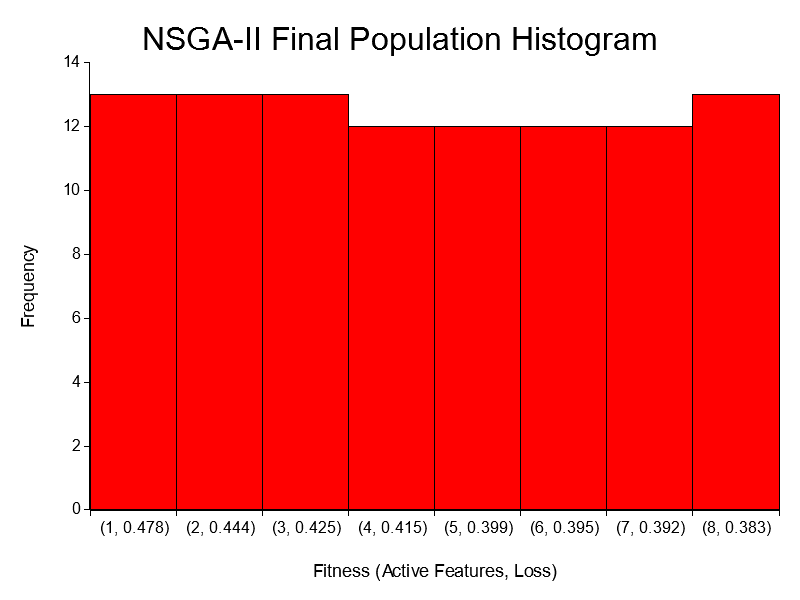
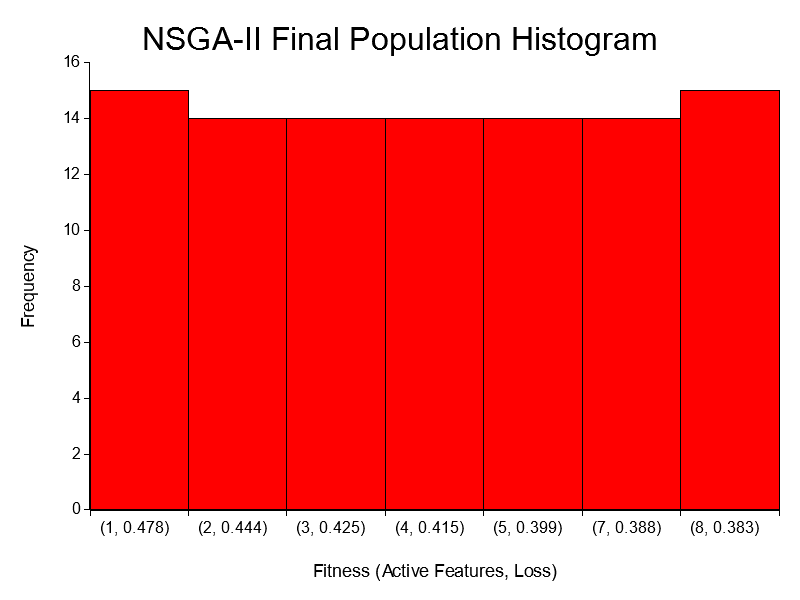
Refactor MOO algorithm to support time-based termination and add multiple run execution

diff --git a/src/algorithms/moo/moo.rs b/src/algorithms/moo/moo.rs
@@ -3,6 +3,8 @@ use crate::utils::read_data;
 use rand::prelude::*;
 use plotters::prelude::*;
 use std::collections::HashMap;
+use std::time::{Instant, Duration};
+
 
 #[derive(Debug, Clone)]
 pub struct MooCombination {
@@ -591,66 +593,255 @@ pub fn plot_population(population: &[MooCombination], filename: &str) -> Result<
     Ok(())
 }
 
-/// Initializes the MOO algorithm with a given dataset and parameters.
-pub fn run_moo_algorithm(file_path: &str, population_size: usize, generations: usize, generations_to_print: usize, gene_length: usize) -> Vec<MooCombination> {
+/// Generic MOO algorithm runner.
+/// It initializes the population, then iteratively evolves it until the provided termination
+/// condition (a closure that takes the current generation count and the start time) returns false.
+/// The closure can use the current generation and elapsed time to decide when to stop.
+fn run_moo_algorithm_generic<F>(
+    file_path: &str,
+    population_size: usize,
+    gene_length: usize,
+    generations_to_print: usize,
+    print: bool,
+    mut termination_condition: F,
+) -> Vec<MooCombination>
+where
+    F: FnMut(usize, Instant) -> bool,
+{
+    // Load dataset and initialize population.
     let lookup_table = read_data::read_data(file_path).unwrap();
+    let mut population = init_population(gene_length, population_size, &lookup_table);
 
-    // Initialize the population
-    let mut population = init_population(gene_length, population_size, &lookup_table); 
-
-    
-    // Changes performed to the initial population
+    // Initial nondominated sort and assign crowding distances.
     let mut sorted_population = fast_nondominated_sort(population.clone());
-
-    // Assgns the crowding distance for the sorted population
     assign_crowding_distance_all(&mut sorted_population);
-
-    let mut generation = 0;
     let mutation_probability = 0.1;
-
     population = sorted_population.clone();
-    while generation < generations {
+
+    // Record start time for time-based termination.
+    let start_time = Instant::now();
+    let mut generation = 0;
+
+    // Run evolutionary loop until termination condition returns false.
+    while termination_condition(generation, start_time) {
         generation += 1;
-        // Prints for every x generations
-        if generation % generations_to_print == 0 {
+
+        // Print generation info if needed.
+        if generation % generations_to_print == 0 && print {
             println!("Generation: {}", generation);
-            // for individual in &population {
-            //    //all the attrs of the individual
-            //     println!("Combination: {:?}, Loss: {}, Rank: {}, Crowding Distance: {}", individual.combination, individual.loss, individual.rank, individual.crowding_distance);
-            // }
- 
         }
 
-        // 1 ) Generate offspring population
+        // 1) Generate offspring.
         let offspring_population = generate_offspring_population(&population, mutation_probability, &lookup_table);
-
-        // 2) Merge parent and offspring populations
+        // 2) Merge parent and offspring populations.
         let super_population = merge_populations(&population, &offspring_population);
-
-        // 3) Perform fast nondominated sorting on the merged population
+        // 3) Sort the merged population.
         let sorted_super_population = fast_nondominated_sort(super_population.clone());
-
-        // 4) Apply elitism to select the best individuals for the next generation
+        // 4) Apply elitism to select the next generation.
         let new_population = elitism(&sorted_super_population);
-
-        // 5 assigns the population to the new population
         population = new_population.clone();
-
     }
 
-    // 6) Perform fast nondominated sorting on the final population
+    // Final nondominated sorting and crowding distance assignment.
     let mut final_sorted_population = fast_nondominated_sort(population.clone());
-    // 7) Assign crowding distance to the final population
     assign_crowding_distance_all(&mut final_sorted_population);
-    // Prints the final population
-    println!("Final Population:");
 
-    for individual in &final_sorted_population {
-        println!("Combination: {:?}, Loss: {}, Rank: {}, Crowding Distance: {}", individual.combination, individual.loss, individual.rank, individual.crowding_distance);
+    if print {
+        println!("Final Population:");
+        for individual in &final_sorted_population {
+            println!(
+                "Combination: {:?}, Loss: {}, Rank: {}, Crowding Distance: {}",
+                individual.combination, individual.loss, individual.rank, individual.crowding_distance
+            );
+        }
     }
     final_sorted_population
-
 }
+
+/// Runs the MOO algorithm for a fixed number of generations.
+pub fn run_moo_algorithm(
+    file_path: &str,
+    population_size: usize,
+    generations: usize,
+    generations_to_print: usize,
+    gene_length: usize,
+    print: bool,
+) -> Vec<MooCombination> {
+    run_moo_algorithm_generic(
+        file_path,
+        population_size,
+        gene_length,
+        generations_to_print,
+        print,
+        |generation, _start_time| generation < generations,
+    )
+}
+
+/// Runs the MOO algorithm for a fixed time limit (in seconds).
+pub fn run_moo_algorithm_time(
+    file_path: &str,
+    population_size: usize,
+    time_limit: u64, // time limit in seconds
+    generations_to_print: usize,
+    gene_length: usize,
+    print: bool,
+) -> Vec<MooCombination> {
+    run_moo_algorithm_generic(
+        file_path,
+        population_size,
+        gene_length,
+        generations_to_print,
+        print,
+        |_, start_time| start_time.elapsed() < Duration::from_secs(time_limit),
+    )
+}
+
+pub fn execute_run_n_times(
+    n_times: usize, 
+    population_size: usize,
+    generations: usize, 
+    generations_to_print: usize, 
+    gene_length: usize, 
+    file_path: &str,
+    print: bool,
+    timed: bool
+) -> Vec<MooCombination> {
+    let mut all_best: Vec<MooCombination> = Vec::new();
+
+    for _ in 0..n_times {
+        let mut best_from_run: Vec<MooCombination> = Vec::new();
+        if timed {
+            best_from_run = run_moo_algorithm_time(file_path, population_size, 1, generations_to_print, gene_length, print);
+        }
+        else {
+            best_from_run = run_moo_algorithm(file_path, population_size, generations, generations_to_print, gene_length, print);
+        }
+        all_best.extend(best_from_run);
+    }
+    all_best
+}
+
+/// Helper function to choose a base hue (in degrees) for a given x-value (number of features).
+fn hue_for_x(x: i32) -> f64 {
+    match x {
+        1 => 0.0,    // red
+        2 => 60.0,   // yellow
+        3 => 120.0,  // green
+        4 => 180.0,  // cyan
+        5 => 240.0,  // blue
+        6 => 300.0,  // magenta
+        // For x > 6, just wrap around or pick a default
+        _ => 0.0,    // fallback to red
+    }
+}
+
+pub fn plot_best_pareto_overview(
+    all_best: &[MooCombination],
+    filename: &str,
+) -> Result<(), Box<dyn std::error::Error>> {
+    // Build frequency map from the all_best population.
+    let mut freq_map: HashMap<String, usize> = HashMap::new();
+    for ind in all_best {
+        // Skip individuals with infinite loss.
+        if ind.loss.is_infinite() {
+            continue;
+        }
+        let (active, loss) = get_fitness(ind);
+        // Create a key that identifies a point (using a rounded loss to 3 for grouping).
+        let key = format!("({}, {:.3})", active, loss);
+        *freq_map.entry(key).or_insert(0) += 1;
+    }
+    println!("{:?}", freq_map);
+
+    // Find maximum frequency (for normalizing colors later).
+    let max_freq = freq_map.values().copied().max().unwrap_or(1);
+
+    // Extract unique points from the all_best population.
+    let mut unique_points: HashMap<String, &MooCombination> = HashMap::new();
+    for ind in all_best {
+        if ind.loss.is_infinite() {
+            continue;
+        }
+        let (active, loss) = get_fitness(ind);
+        let key = format!("({}, {:.3})", active, loss);
+        unique_points.entry(key).or_insert(ind);
+    }
+
+    // Collect unique individuals for computing plot ranges.
+    let unique_vals: Vec<&&MooCombination> = unique_points.values().collect();
+    if unique_vals.is_empty() {
+        println!("No valid individuals to plot.");
+        return Ok(());
+    }
+
+    // Determine x range (number of active features) and y range (loss)
+    let x_min = unique_vals
+        .iter()
+        .map(|ind| ind.combination.iter().filter(|&&b| b).count() as i32)
+        .min()
+        .unwrap();
+    let x_max = unique_vals
+        .iter()
+        .map(|ind| ind.combination.iter().filter(|&&b| b).count() as i32)
+        .max()
+        .unwrap();
+    let y_min = unique_vals
+        .iter()
+        .map(|ind| ind.loss)
+        .fold(f64::INFINITY, |a, b| a.min(b));
+    let y_max = unique_vals
+        .iter()
+        .map(|ind| ind.loss)
+        .fold(f64::NEG_INFINITY, |a, b| a.max(b));
+
+    // Set up the drawing area.
+    let root = BitMapBackend::new(filename, (800, 600)).into_drawing_area();
+    root.fill(&WHITE)?;
+
+    let mut chart = ChartBuilder::on(&root)
+        .caption("Best Pareto Front Overview", ("sans-serif", 50))
+        .margin(20)
+        .x_label_area_size(70)
+        .y_label_area_size(70)
+        .build_cartesian_2d(x_min..(x_max + 1), y_min..(y_max + 0.01))?;
+
+    chart.configure_mesh()
+        .x_desc("Number of Active Features")
+        .y_desc("Loss")
+        .axis_desc_style(("sans-serif", 22).into_font())
+        .x_label_style(("sans-serif", 20).into_font())
+        .y_label_style(("sans-serif", 20).into_font())
+        .draw()?;
+
+    // Plot each unique point with a color determined by both its x-value and frequency.
+    for (key, ind) in unique_points {
+        let frequency = *freq_map.get(&key).unwrap_or(&0);
+        let normalized = frequency as f64 / max_freq as f64; // value in [0, 1]
+
+        let x = ind.combination.iter().filter(|&&b| b).count() as i32;
+        let y = ind.loss;
+
+        // Base hue depends on x, so each x gets its own color "family".
+        let base_hue = hue_for_x(x);
+
+        // Saturation from 0.3 (low freq) up to 1.0 (high freq).
+        let saturation = 0.3 + normalized * 0.7;
+
+        let lightness = 0.6 - normalized * 0.2; // from 0.6 down to 0.4
+
+        let color = HSLColor(base_hue, saturation, lightness);
+
+        // Draw the point as a circle.
+        chart.draw_series(std::iter::once(
+            Circle::new((x, y), 6, color.filled()),
+        ))?;
+    }
+
+    root.present()?;
+    println!("Best Pareto Front overview plot saved to {}", filename);
+    Ok(())
+}
+
 
 pub fn plot_histogram(population: &[MooCombination], filename: &str) -> Result<(), Box<dyn std::error::Error>> {
     use std::collections::HashMap;
@@ -753,7 +944,6 @@ pub fn plot_histogram(population: &[MooCombination], filename: &str) -> Result<(
     Ok(())
 }
 
-
 pub fn init() {
 
     // 1) Loads the breast cancer dataset
@@ -764,28 +954,46 @@ pub fn init() {
     let generations_to_print = 100; // Print every x generations
     let gene_length = 9; // Number of features (columns) in the dataset
 
-    let final_sorted_population = run_moo_algorithm(file_path, population_size, generations, generations_to_print, gene_length);
+    // let final_sorted_population = run_moo_algorithm(file_path, population_size, generations, generations_to_print, gene_length);
 
-    // 8) Plot the final population
-    let plot_filename = "src/output/moo/nsga_2_breast_cancer.png";
-    plot_population(&final_sorted_population, plot_filename).unwrap();
+    // // 8) Plot the final population
+    // let plot_filename = "src/output/moo/nsga_2_breast_cancer.png";
+    // plot_population(&final_sorted_population, plot_filename).unwrap();
 
-    // 2 LOads the wine dataset
-    let file_path = "XGB-Feature-Selection/output/wine_quality_combined";
-    let population_size = 100; // Size of the population
-    let generations = 1000; // Number of generations to run
-    let generations_to_print = 100; // Print every x generations
-    let gene_length = 11; // Number of features (columns) in the dataset
+    // // 2 LOads the wine dataset
+    // let file_path = "XGB-Feature-Selection/output/wine_quality_combined";
+    // let population_size = 100; // Size of the population
+    // let generations = 1000; // Number of generations to run
+    // let generations_to_print = 100; // Print every x generations
+    // let gene_length = 11; // Number of features (columns) in the dataset
 
-    let final_sorted_population = run_moo_algorithm(file_path, population_size, generations, generations_to_print, gene_length);
-    // 8) Plot the final population
-    let plot_filename = "src/output/moo/nsga_2_wine_combined.png";
-    plot_population(&final_sorted_population, plot_filename).unwrap();
+    // let final_sorted_population = run_moo_algorithm(file_path, population_size, generations, generations_to_print, gene_length);
+    // // 8) Plot the final population
+    // let plot_filename = "src/output/moo/nsga_2_wine_combined.png";
+    // plot_population(&final_sorted_population, plot_filename).unwrap();
 
-    // 3) Plot the histogram for the final population
-    let histogram_filename = "src/output/moo/nsga_2_histogram.png";
-    plot_histogram(&final_sorted_population, histogram_filename).unwrap();
-    println!("Histogram saved to {}", histogram_filename);
+    // // 3) Plot the histogram for the final population
+    // let histogram_filename = "src/output/moo/nsga_2_histogram.png";
+    // plot_histogram(&final_sorted_population, histogram_filename).unwrap();
+    // println!("Histogram saved to {}", histogram_filename);
+
+
+    // 1) Loads the breast cancer dataset
+    let file_path = "XGB-Feature-Selection/output/breast_cancer_wisconsin_original"; 
+    let plot_filename = "src/output/moo/nsga_2_breast_cancer_multiple.png";
+
+    let all_best = execute_run_n_times(
+        100, 
+        population_size, 
+        generations, 
+        generations_to_print, 
+        gene_length, 
+        file_path,
+        false,
+        true
+    );
+    plot_best_pareto_overview(&all_best, plot_filename).unwrap();
+
 
 
 }
